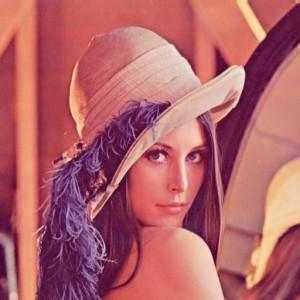
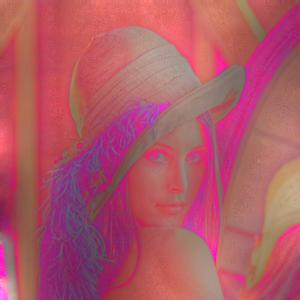
Made some changes to gradient domain. Not sure how to compute k_alpha.

diff --git a/src/GradDom.cpp b/src/GradDom.cpp
@@ -31,26 +31,6 @@ bool GradDom::runOpenCL(Image input, Image output, const Params& params) {
 	return false;
 }
 
-//computes gradient of a channel using forward difference
-float* gradient_forward(float* input, int width, int height) {
-	float* result = (float*) calloc(width*height, sizeof(float));
-
-	for (int y = 0; y < height-1; y++) {
-		for (int x = 0; x < width-1; x++) {
-			result[x + y*width] = sqrt(pow(input[x+1 + y*width]-input[x + y*width], 2) + pow(input[x + (y+1)*width]-input[x + y*width], 2));
-		}
-		int x = width-1;
-		result[x + y*width] = abs(input[x + (y+1)*width]-input[x + y*width]);
-	}
-	int y = height-1;
-	for (int x = 0; x < width-1; x++) {
-		result[x + y*width] = abs(input[x+1 + y*width]-input[x + y*width]);
-	}
-	return result;
-}
-
-
-
 float* attenuate_func(float* lum, int width, int height) {
 	float beta = 0.85;
 	int k = 0;
@@ -76,8 +56,8 @@ float* attenuate_func(float* lum, int width, int height) {
 				int y_north = clamp(y-1, 0, k_height-1);
 				int y_south = clamp(y+1, 0, k_height-1);
 
-				float x_grad = (k_lum[x_west + y*k_width] - k_lum[x_east + y*k_width])/(float)pow(2.f, k+1);
-				float y_grad = (k_lum[x + y_south*k_width] - k_lum[x + y_north*k_width])/(float)pow(2.f, k+1);
+				float x_grad = (k_lum[x_west + y*k_width] - k_lum[x_east + y*k_width])/pow(2.f, k+1);
+				float y_grad = (k_lum[x + y_south*k_width] - k_lum[x + y_north*k_width])/pow(2.f, k+1);
 				k_gradient[x + y*k_width] = sqrt(pow(x_grad, 2) + pow(y_grad, 2));
 				k_av_grad += k_gradient[x + y*k_width];
 			}
@@ -86,7 +66,9 @@ float* attenuate_func(float* lum, int width, int height) {
 		pyramid_sizes.push_back(std::pair< unsigned int, unsigned int >(k_width, k_height));
 		av_grads.push_back(k_av_grad/(k_width*k_height));
 
-		k_lum = mipmap(k_lum, k_width, k_height);
+		printf("%d, %d, %f\n", k_width, k_height, k_av_grad/(k_width*k_height));
+
+		k_lum = channel_mipmap(k_lum, k_width, k_height);
 	}
 
 
@@ -119,7 +101,7 @@ float* attenuate_func(float* lum, int width, int height) {
 		k_gradient = pyramid.back();
 		k_width = pyramid_sizes.back().first;
 		k_height = pyramid_sizes.back().second;
-		float k_alpha = 0.1*av_grads.back();
+		float k_alpha = 0.1f*av_grads.back();
 		float k_xy_scale_factor;
 		float k_xy_atten_func;
 		k--;
@@ -166,7 +148,15 @@ float* attenuate_func(float* lum, int width, int height) {
 }
 
 
-float* poissonSolver(float* prev_dr, float* div_grad, int width, int height, float terminationCriterea=0.001) {
+float* poissonSolver(float* lum, float* div_grad, int width, int height, float terminationCriterea=0.001) {
+
+	float* prev_dr = (float*) calloc(height*width, sizeof(float));
+	for (int y = 0; y < height; y++) {
+		for (int x = 0; x < width; x++) {
+			prev_dr[x + y*width] = lum[x+y*width];
+		}
+	}
+
 
 	float* new_dr = (float*) calloc(height*width, sizeof(float));
 
@@ -183,14 +173,15 @@ float* poissonSolver(float* prev_dr, float* div_grad, int width, int height, flo
 				int y_south = clamp(y+1, 0, height-1);
 
 				float prev = prev_dr[x_west + y*width] + prev_dr[x_east + y*width] + prev_dr[x + y_north*width] + prev_dr[x + y_south*width];
+				//printf("%f\n", div_grad[x+y*width]);
 				new_dr[x + y*width] = 0.25f*(prev - div_grad[x + y*width]);
 				diff = new_dr[x + y*width] - prev_dr[x + y*width];
-				diff = (diff > 0) ? diff : -diff;
+				diff = (diff >= 0) ? diff : -diff;
 
 				if (diff < terminationCriterea) converged_pixels++;
 			}
 		}
-		//printf("%d\n", converged_pixels);
+		//printf("%d, %d\n", converged_pixels, width*height);
 		float* swap = prev_dr;
 		prev_dr = new_dr;
 		new_dr = swap;
@@ -232,7 +223,7 @@ bool GradDom::runReference(Image input, Image output) {
 
 	reportStatus("Running reference");
 
-	float saturation_exp = 0.5;
+	float sat = 1.f;
 
 	//computing logarithmic luminace of the image
 	float* lum = (float*) calloc(input.width * input.height, sizeof(float));	//logarithm luminance
@@ -288,9 +279,10 @@ bool GradDom::runReference(Image input, Image output) {
 	float3 rgb;
 	for (int y = 0; y < input.height; y++) {
 		for (int x = 0; x < input.width; x++) {
-			rgb.x = pow(getPixel(input, x, y, 0)/exp(lum[x + y*input.width]), 1.0)*exp(new_lum[x + y*input.width]);
-			rgb.y = pow(getPixel(input, x, y, 1)/exp(lum[x + y*input.width]), 1.0)*exp(new_lum[x + y*input.width]);
-			rgb.z = pow(getPixel(input, x, y, 2)/exp(lum[x + y*input.width]), 1.0)*exp(new_lum[x + y*input.width]);
+			//printf("%f, %f\n", lum[x + y*input.width], new_dr[x+y*input.width]);
+			rgb.x = pow(getPixel(input, x, y, 0)/exp(lum[x + y*input.width]), sat)*exp(new_lum[x + y*input.width]);
+			rgb.y = pow(getPixel(input, x, y, 1)/exp(lum[x + y*input.width]), sat)*exp(new_lum[x + y*input.width]);
+			rgb.z = pow(getPixel(input, x, y, 2)/exp(lum[x + y*input.width]), sat)*exp(new_lum[x + y*input.width]);
 
 			setPixel(output, x, y, 0, rgb.x);
 			setPixel(output, x, y, 1, rgb.y);

diff --git a/src/Filter.cpp b/src/Filter.cpp
@@ -203,11 +203,11 @@ Image Filter::runFilter(Image input, Params params, unsigned int method) {
 /////////////////
 
 
-float* mipmap(float* input, int width, int height, int level) {
+float* channel_mipmap(float* input, int width, int height, int level) {
 	int scale_factor = pow(2, level);
 	int m_width = width/scale_factor;
 	int m_height = height/scale_factor;
-	float* result = (float*) calloc(width*height, sizeof(float));
+	float* result = (float*) calloc(m_width*m_height, sizeof(float));
 
 	for (int y = 0; y < m_height; y++) {
 		for (int x = 0; x < m_width; x++) {

diff --git a/src/Filter.h b/src/Filter.h
@@ -109,7 +109,7 @@ double getCurrentTime();
 // Image utils
 buffer_t createHalideBuffer(Image &image);
 
-float* mipmap(float* input, int width, int height, int level=1);
+float* channel_mipmap(float* input, int width, int height, int level=1);
 Image image_mipmap(Image &input, int level=1);
 
 float clamp(float x, float min, float max);
